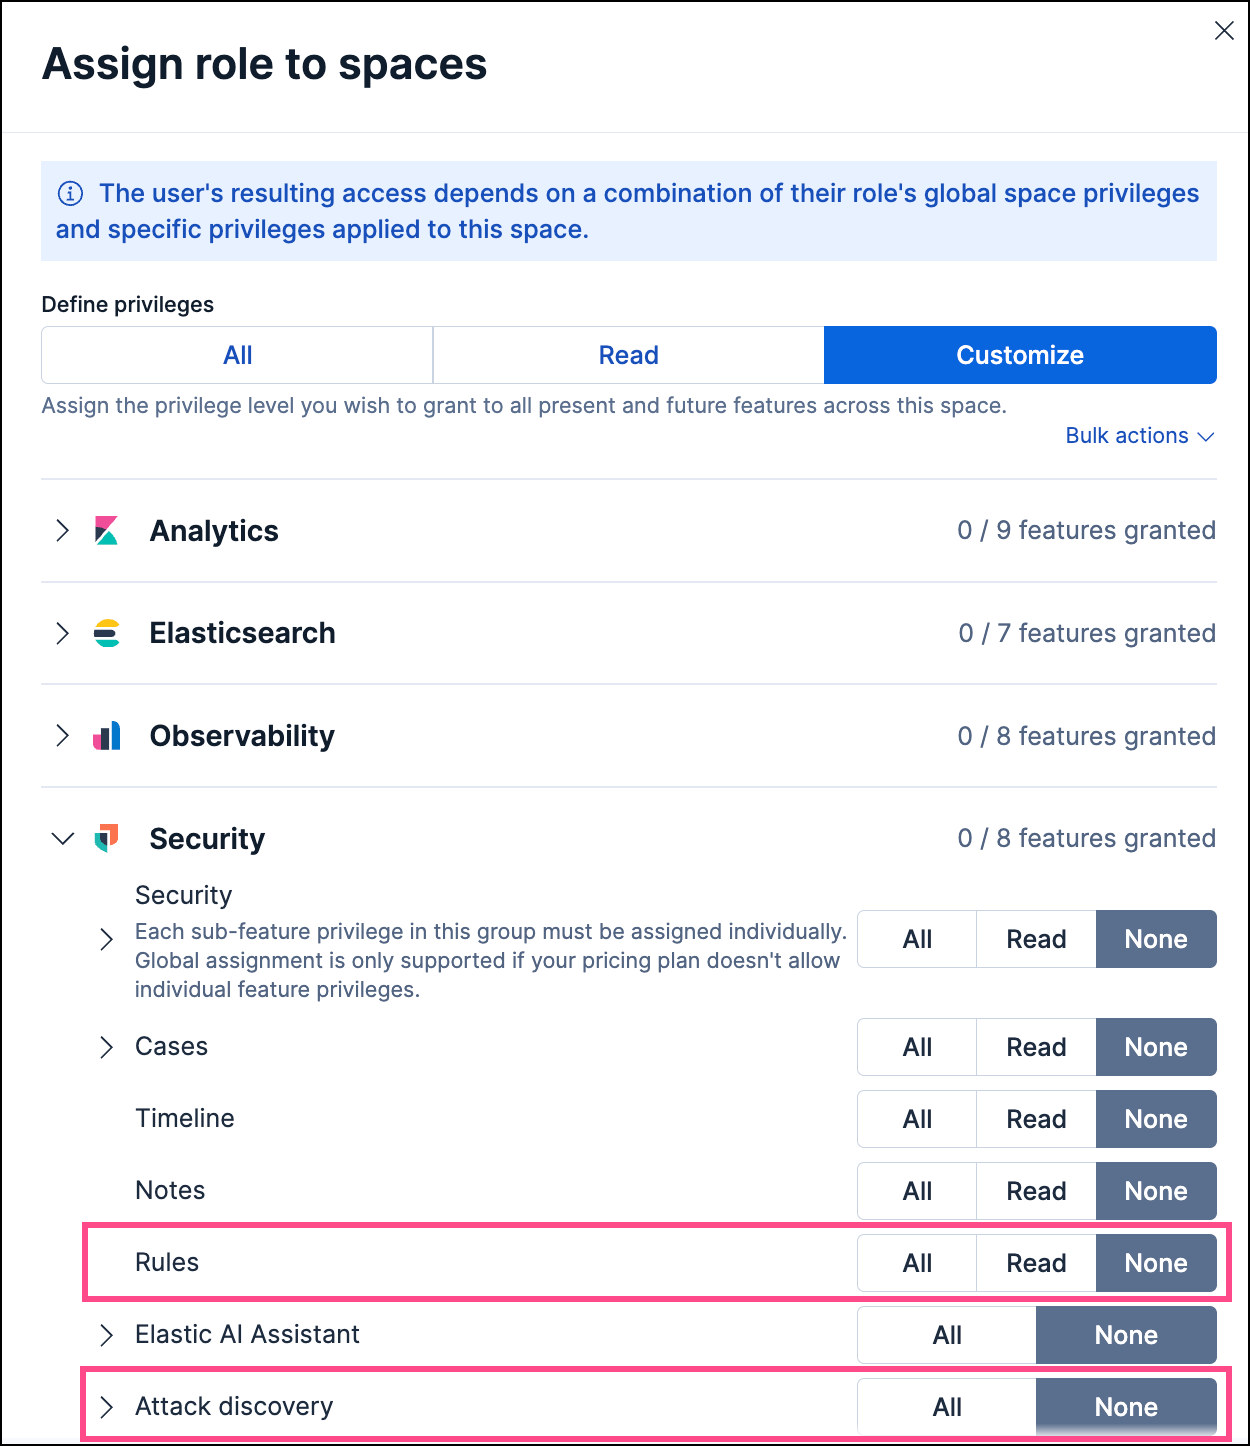
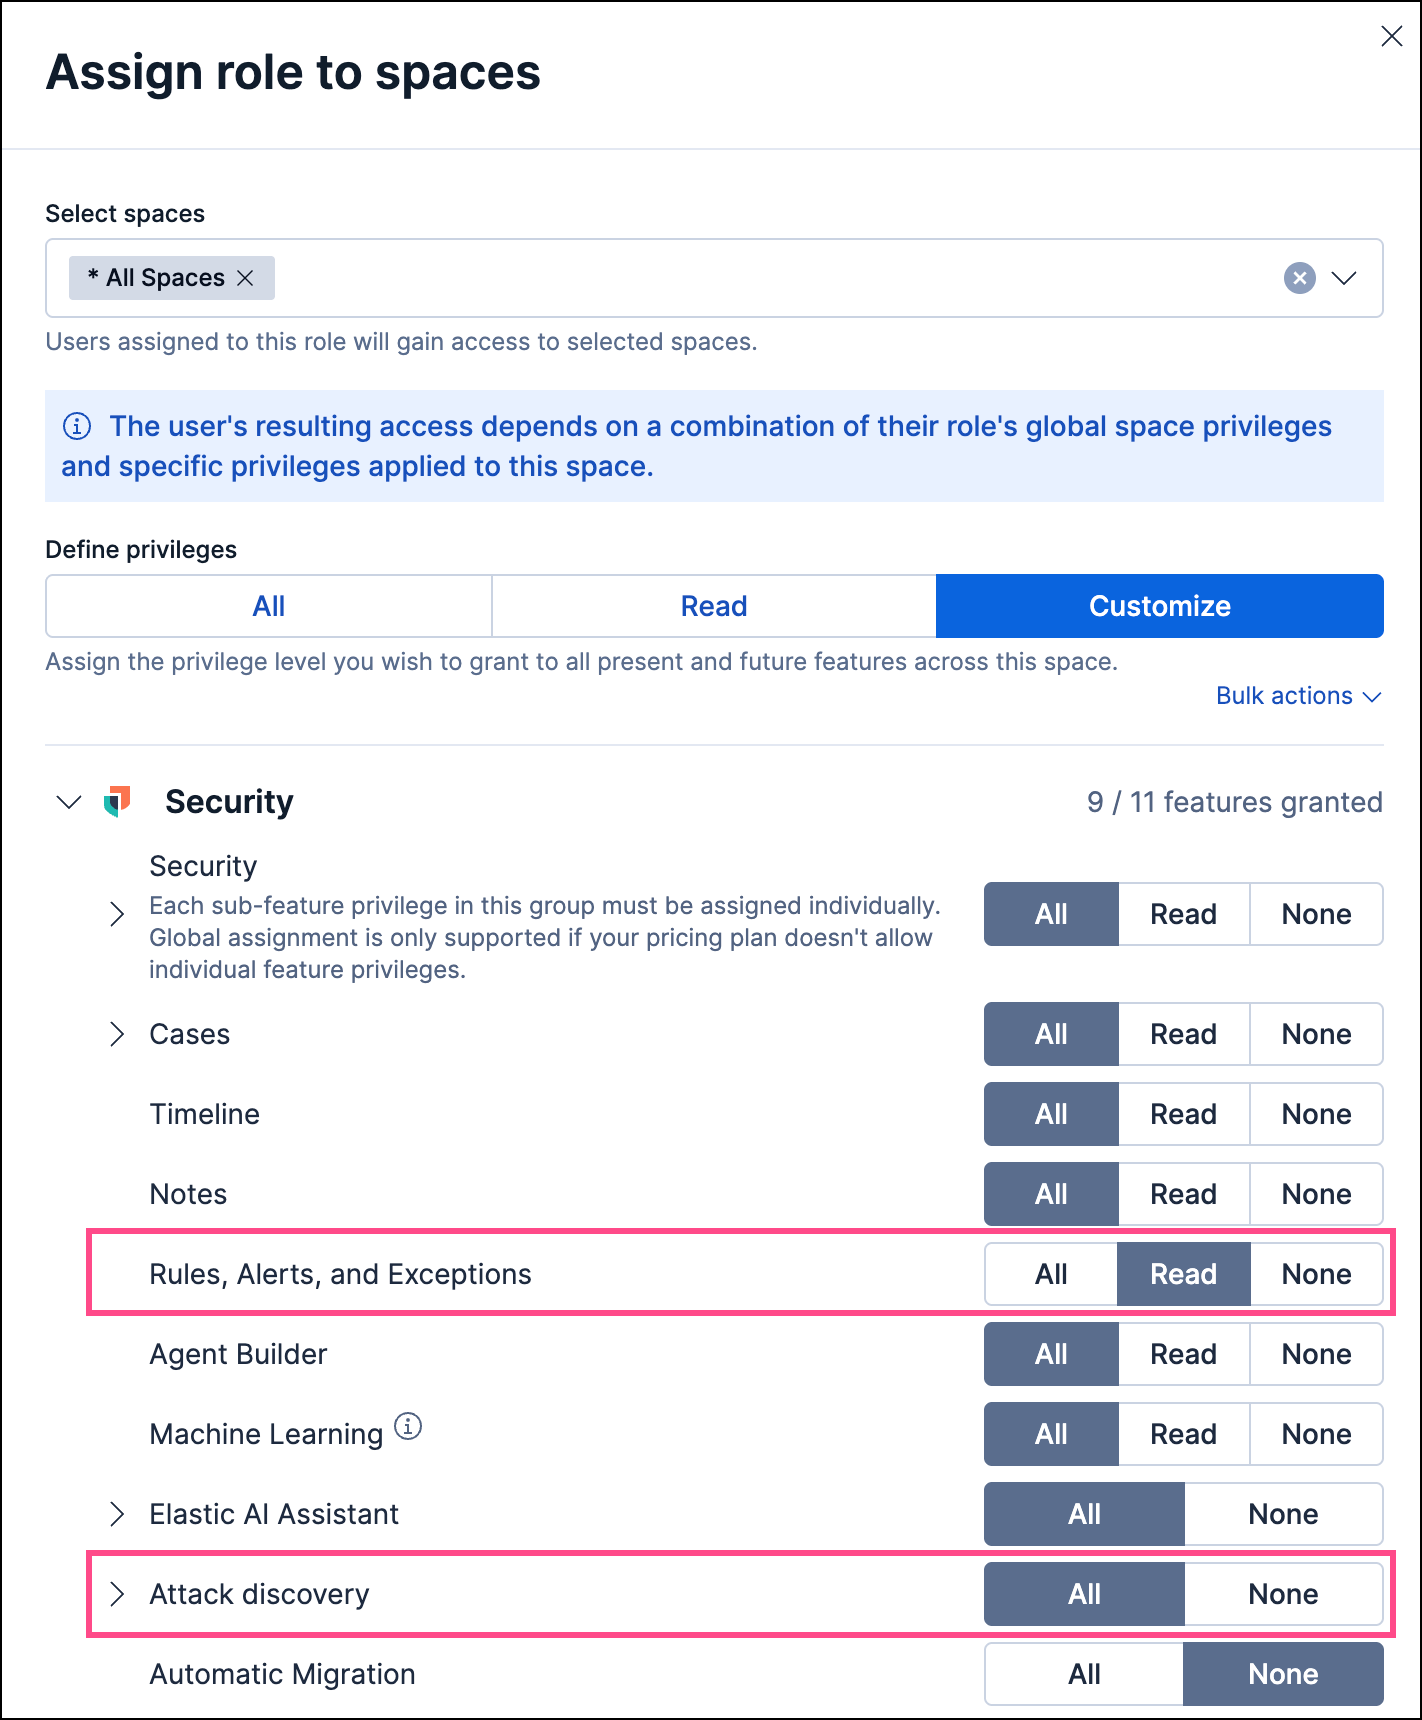
[Security][RBAC][9.3 & Serverless]: The `Rules` feature priv is being renamed to `Rules, Alerts and Exceptions` (#4433)
<!--
Thank you for contributing to the Elastic Docs! 🎉
Use this template to help us efficiently review your contribution.
-->

⚠ DO NOT MERGE until dev PR is merged ⚠

## Summary
Fixes https://github.com/elastic/docs-content-internal/issues/611 by
updating the name of the rules feature priv would from `Rules` to
`Rules, Alerts, and Exceptions`.

## Generative AI disclosure
<!--
To help us ensure compliance with the Elastic open source and
documentation guidelines, please answer the following:
-->
1. Did you use a generative AI (GenAI) tool to assist in creating this
contribution?
- [ ] Yes  
- [x] No  
<!--
2. If you answered "Yes" to the previous question, please specify the
tool(s) and model(s) used (e.g., Google Gemini, OpenAI ChatGPT-4, etc.).

Tool(s) and model(s) used:
-->

Changed region(s): [[0.0, 0.0, 1.0, 1.0], [0.0312, 0.0311, 0.4056, 0.0622]]

diff --git a/solutions/security/detect-and-alert/detections-requirements.md b/solutions/security/detect-and-alert/detections-requirements.md
@@ -60,12 +60,12 @@ For instructions about using {{ml}} jobs and rules, refer to [Machine learning j
 
 | Action | Cluster Privileges | Index Privileges | Kibana Privileges |
 | --- | --- | --- | --- |
-| Enable detections in your space | `manage` | `manage`, `write`, `read`, and `view_index_metadata` for these system indices and data streams, where `<space-id>` is the space name:<br><br>- `.alerts-security.alerts-<space-id>`<br>- `.siem-signals-<space-id>` ^1^<br>- `.lists-<space-id>`<br>- `.items-<space-id>`<br><br>^1^ **NOTE**: If you’re upgrading to {{stack}} 8.0.0 or later, users should have privileges for the `.alerts-security.alerts-<space-id>` AND `.siem-signals-<space-id>` indices. If you’re newly installing the {{stack}}, then users do not need privileges for the `.siem-signals-<space-id>` index.<br> | - {applies_to}`stack: ga 9.0`: `All` for the `Security` feature<br><br> - {applies_to}`stack: ga 9.3` {applies_to}`serverless: ga`: `All` for the `Rules` feature |
-| Enable detections in all spaces<br><br>**NOTE**: To turn on detections, visit the Rules and Alerts pages for each space. | `manage` | `manage`, `write`, `read`, and `view_index_metadata` for these system indices and data streams:<br><br>- `.alerts-security.alerts-<space-id>`<br>- `.siem-signals-<space-id>` ^1^<br>- `.lists-<space-id>`<br>- `.items-<space-id>`<br><br>^1^ **NOTE**: If you’re upgrading to {{stack}} 8.0.0 or later, users should have privileges for the `.alerts-security.alerts-<space-id>` AND `.siem-signals-<space-id>` indices. If you’re newly installing the {{stack}}, then users do not need privileges for the `.siem-signals-<space-id>` index.<br> | - {applies_to}`stack: ga 9.0`: `All` for the `Security` feature<br><br> - {applies_to}`stack: ga 9.3` {applies_to}`serverless: ga`: `All` for the `Rules` feature |
-| Preview rules | N/A | `read` for these indices:<br><br>- `.preview.alerts-security.alerts-<space-id>`<br>- `.internal.preview.alerts-security.alerts-<space-id>-*`<br> | - {applies_to}`stack: ga 9.0`: `All` for the `Security` feature<br><br> - {applies_to}`stack: ga 9.3` {applies_to}`serverless: ga`: `All` for the `Rules` feature |
-| Manage rules | N/A | `manage`, `write`, `read`, and `view_index_metadata` for these system indices and data streams, where `<space-id>` is the space name:<br><br>- `.alerts-security.alerts-<space-id>`<br>- `.siem-signals-<space-id>`^1^<br>- `.lists-<space-id>`<br>- `.items-<space-id>`<br><br>^1^ **NOTE**: If you’re upgrading to {{stack}} 8.0.0 or later, users should have privileges for the `.alerts-security.alerts-<space-id>` AND `.siem-signals-<space-id>` indices. If you’re newly installing the {{stack}}, then users do not need privileges for the `.siem-signals-<space-id>` index.<br> | - {applies_to}`stack: ga 9.0`: `All` for the `Security` feature<br><br> - {applies_to}`stack: ga 9.3` {applies_to}`serverless: ga`: `All` for the `Rules` feature<br><br>**NOTE:** You need additional `Action and Connectors` feature privileges (**Management → Action and Connectors**) to manage rules with actions and connectors:<br><br>- To provide full access to rule actions and connectors, give your role `All` privileges. With `Read` privileges, you can edit rule actions, but will have limited capabilities to manage connectors. For example, `Read` privileges allow you to add or remove an existing connector from a rule, but does not allow you to create a new connector.<br>- To import rules with actions, you need at least `Read` privileges for the `Action and Connectors` feature. To overwrite or add new connectors, you need `All` privileges for the `Actions and Connectors` feature. To import rules without actions,  you don’t need `Actions and Connectors` privileges.<br> |
-| Manage alerts<br><br>**NOTE**: Allows you to manage alerts, but not modify rules. | N/A | `maintenance`, `write`, `read`, and `view_index_metadata` for these system indices and data streams, where `<space-id>` is the space name:<br><br>- `.alerts-security.alerts-<space-id>`<br>- `.internal.alerts-security.alerts-<space-id>-*`<br>- `.siem-signals-<space-id>`^1^<br>- `.lists-<space-id>`<br>- `.items-<space-id>`<br><br> **NOTE**: Before a user can be assigned to a case, they must log into Kibana at least once, which creates a user profile.<br><br>^1^ **NOTE**: If you’re upgrading to {{stack}} 8.0.0 or later, users should have privileges for the `.alerts-security.alerts-<space-id>` AND `.siem-signals-<space-id>` indices. If you’re newly installing the {{stack}}, then users do not need privileges for the `.siem-signals-<space-id>` index.<br> | - {applies_to}`stack: ga 9.0`: `All` for the `Security` feature<br><br> - {applies_to}`stack: ga 9.3` {applies_to}`serverless: ga`: `All` for the `Rules` feature <br><br>**NOTE:** Alerts are managed through {{es}} index privileges. To view the alert management flows requires at least the `Read` for the `Rules` feature. |
-| Manage exceptions | N/A | N/A | - {applies_to}`stack: ga 9.0`: `All` for the `Security` feature<br><br> - {applies_to}`stack: ga 9.3` {applies_to}`serverless: ga`: `All` for the `Rules` feature |
+| Enable detections in your space | `manage` | `manage`, `write`, `read`, and `view_index_metadata` for these system indices and data streams, where `<space-id>` is the space name:<br><br>- `.alerts-security.alerts-<space-id>`<br>- `.siem-signals-<space-id>` ^1^<br>- `.lists-<space-id>`<br>- `.items-<space-id>`<br><br>^1^ **NOTE**: If you’re upgrading to {{stack}} 8.0.0 or later, users should have privileges for the `.alerts-security.alerts-<space-id>` AND `.siem-signals-<space-id>` indices. If you’re newly installing the {{stack}}, then users do not need privileges for the `.siem-signals-<space-id>` index.<br> | - {applies_to}`stack: ga 9.0`: `All` for the `Security` feature<br><br> - {applies_to}`stack: ga 9.3` {applies_to}`serverless: ga`: `All` for the `Rules, Alerts, and Exceptions` feature |
+| Enable detections in all spaces<br><br>**NOTE**: To turn on detections, visit the Rules and Alerts pages for each space. | `manage` | `manage`, `write`, `read`, and `view_index_metadata` for these system indices and data streams:<br><br>- `.alerts-security.alerts-<space-id>`<br>- `.siem-signals-<space-id>` ^1^<br>- `.lists-<space-id>`<br>- `.items-<space-id>`<br><br>^1^ **NOTE**: If you’re upgrading to {{stack}} 8.0.0 or later, users should have privileges for the `.alerts-security.alerts-<space-id>` AND `.siem-signals-<space-id>` indices. If you’re newly installing the {{stack}}, then users do not need privileges for the `.siem-signals-<space-id>` index.<br> | - {applies_to}`stack: ga 9.0`: `All` for the `Security` feature<br><br> - {applies_to}`stack: ga 9.3` {applies_to}`serverless: ga`: `All` for the `Rules, Alerts, and Exceptions` feature |
+| Preview rules | N/A | `read` for these indices:<br><br>- `.preview.alerts-security.alerts-<space-id>`<br>- `.internal.preview.alerts-security.alerts-<space-id>-*`<br> | - {applies_to}`stack: ga 9.0`: `All` for the `Security` feature<br><br> - {applies_to}`stack: ga 9.3` {applies_to}`serverless: ga`: `All` for the `Rules, Alerts, and Exceptions` feature |
+| Manage rules | N/A | `manage`, `write`, `read`, and `view_index_metadata` for these system indices and data streams, where `<space-id>` is the space name:<br><br>- `.alerts-security.alerts-<space-id>`<br>- `.siem-signals-<space-id>`^1^<br>- `.lists-<space-id>`<br>- `.items-<space-id>`<br><br>^1^ **NOTE**: If you’re upgrading to {{stack}} 8.0.0 or later, users should have privileges for the `.alerts-security.alerts-<space-id>` AND `.siem-signals-<space-id>` indices. If you’re newly installing the {{stack}}, then users do not need privileges for the `.siem-signals-<space-id>` index.<br> | - {applies_to}`stack: ga 9.0`: `All` for the `Security` feature<br><br> - {applies_to}`stack: ga 9.3` {applies_to}`serverless: ga`: `All` for the `Rules, Alerts, and Exceptions` feature<br><br>**NOTE:** You need additional `Action and Connectors` feature privileges (**Management → Action and Connectors**) to manage rules with actions and connectors:<br><br>- To provide full access to rule actions and connectors, give your role `All` privileges. With `Read` privileges, you can edit rule actions, but will have limited capabilities to manage connectors. For example, `Read` privileges allow you to add or remove an existing connector from a rule, but does not allow you to create a new connector.<br>- To import rules with actions, you need at least `Read` privileges for the `Action and Connectors` feature. To overwrite or add new connectors, you need `All` privileges for the `Actions and Connectors` feature. To import rules without actions,  you don’t need `Actions and Connectors` privileges.<br> |
+| Manage alerts<br><br>**NOTE**: Allows you to manage alerts, but not modify rules. | N/A | `maintenance`, `write`, `read`, and `view_index_metadata` for these system indices and data streams, where `<space-id>` is the space name:<br><br>- `.alerts-security.alerts-<space-id>`<br>- `.internal.alerts-security.alerts-<space-id>-*`<br>- `.siem-signals-<space-id>`^1^<br>- `.lists-<space-id>`<br>- `.items-<space-id>`<br><br> **NOTE**: Before a user can be assigned to a case, they must log into Kibana at least once, which creates a user profile.<br><br>^1^ **NOTE**: If you’re upgrading to {{stack}} 8.0.0 or later, users should have privileges for the `.alerts-security.alerts-<space-id>` AND `.siem-signals-<space-id>` indices. If you’re newly installing the {{stack}}, then users do not need privileges for the `.siem-signals-<space-id>` index.<br> | - {applies_to}`stack: ga 9.0`: `All` for the `Security` feature<br><br> - {applies_to}`stack: ga 9.3` {applies_to}`serverless: ga`: `All` for the `Rules, Alerts, and Exceptions` feature <br><br>**NOTE:** Alerts are managed through {{es}} index privileges. To view the alert management flows requires at least the `Read` for the `Rules, Alerts, and Exceptions` feature. |
+| Manage exceptions | N/A | N/A | - {applies_to}`stack: ga 9.0`: `All` for the `Security` feature<br><br> - {applies_to}`stack: ga 9.3` {applies_to}`serverless: ga`: `All` for the `Rules, Alerts, and Exceptions` feature |
 | Manage value lists.<br><br>Create the `.lists` and `.items` data streams in your space<br><br>**NOTE**: To initiate the process that creates the data streams, you must visit the Rules page for each appropriate space. | `manage` | `manage`, `write`, `read`, and `view_index_metadata` for these data streams, where `<space-id>` is the space name:<br><br>- `.lists-<space-id>`<br>- `.items-<space-id>`<br> | - {applies_to}`stack: ga 9.0`: `All` for the `Security` feature<br><br> - {applies_to}`stack: ga 9.3` {applies_to}`serverless: ga`: `All` for the `Rules` and `Saved Objects Management` features |
 
 ### Predefined {{serverless-full}} roles [predefined-serverless-roles-detections]

diff --git a/solutions/security/get-started/automatic-migration.md b/solutions/security/get-started/automatic-migration.md
@@ -33,7 +33,7 @@ You can ingest your data before migrating your assets, or migrate your assets fi
 :::{applies-item} { "stack": "ga 9.3", "serverless": "ga" }
 **Requirements**
 
-* `All` [{{kib}} privileges](../../../deploy-manage/users-roles/cluster-or-deployment-auth/kibana-role-management.md) for the **Security > SIEM migrations** {{kib}} feature and at least `Read` privileges for the **Security > Rules** {{kib}} feature.
+* `All` [{{kib}} privileges](../../../deploy-manage/users-roles/cluster-or-deployment-auth/kibana-role-management.md) for the **Security > SIEM migrations** {{kib}} feature and at least `Read` privileges for the **Security > Rules, Alerts, and Exceptions** {{kib}} feature.
 * A working [LLM connector](/explore-analyze/ai-features/llm-guides/llm-connectors.md).
 * {{stack}} users: an [Enterprise](https://www.elastic.co/pricing) subscription.
 * {{Stack}} users: {{ml}} must be enabled.

diff --git a/solutions/security/ai/attack-discovery.md b/solutions/security/ai/attack-discovery.md
@@ -55,7 +55,7 @@ Ensure your role has:
 
 Ensure your role has:
 
-* `All` [{{kib}} privileges](../../../deploy-manage/users-roles/cluster-or-deployment-auth/kibana-role-management.md) for the **Security > Attack Discover** {{kib}} feature and at least `Read` privileges for the **Security > Rules** {{kib}} feature.
+* `All` [{{kib}} privileges](../../../deploy-manage/users-roles/cluster-or-deployment-auth/kibana-role-management.md) for the **Security > Attack Discover** {{kib}} feature and at least `Read` privileges for the **Security > Rules, Alerts, and Exceptions** {{kib}} feature.
 
     ![attack-discovery-rules-rbac](/solutions/images/attack-discovery-rules-rbac.png "elasticsearch =60%x60%")
 
